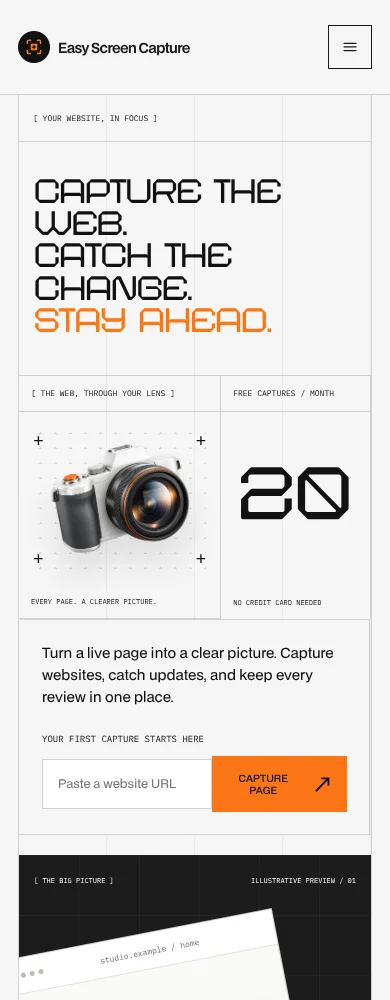
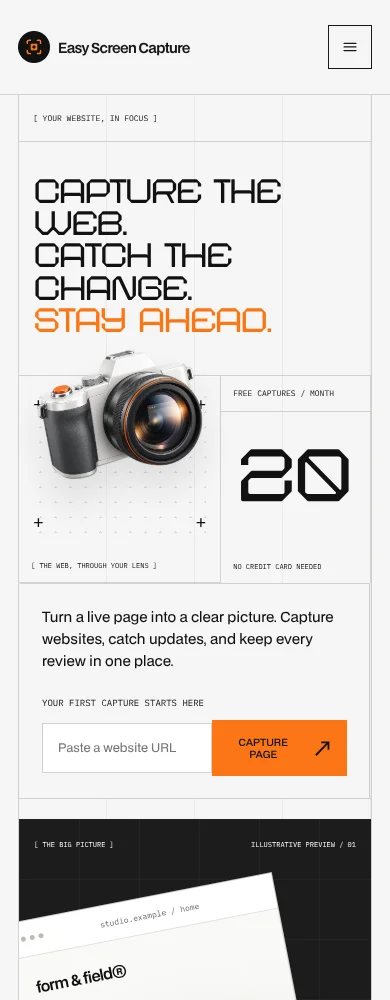
Let hero camera extend above its grid cell

Changed region(s): [[0.0308, 0.341, 0.9538, 1.0], [0.6154, 0.434, 0.8923, 0.527], [0.9231, 0.589, 0.9538, 0.62]]

diff --git a/src/styles/adon/ai-landing.css b/src/styles/adon/ai-landing.css
@@ -62,10 +62,13 @@
 }
 .ai-camera-art > img {
   width: 100%;
-  height: 100%;
-  object-fit: contain;
+  height: auto;
+  max-width: none;
   position: absolute;
-  inset: 0;
+  top: calc(-1 * clamp(80px, 10vw, 160px));
+  left: 0;
+  z-index: 2;
+  pointer-events: none;
   filter: drop-shadow(0 22px 14px #11111118);
   animation: ai-camera-float 8s ease-in-out infinite;
 }
@@ -692,6 +695,7 @@
   }
   .ai-camera-art > img {
     width: 100%;
+    top: calc(-1 * clamp(50px, 16vw, 65px));
   }
   .ai-landing .hero-17-content .location,
   .ai-landing .hero-17-content .experience {

diff --git a/docs/camera-hero.md b/docs/camera-hero.md
@@ -4,7 +4,7 @@ Generated with the built-in image-generation tool for Easy Screen Capture.
 
 Asset: `public/images/capture-camera.webp` (transparent alpha, 1254 × 1254, WebP delivery encoding).
 
-The camera replaces the abstract network shape in the AI Agency hero. Slow floating motion honors reduced-motion preferences and the existing pause control. It is decorative; the heading and capture form communicate the product without it.
+The camera replaces the abstract network shape in the AI Agency hero. It is enlarged and extends above the top border of its grid cell, echoing the reference robot composition, with a smaller overlap on mobile. The caption sits below the artwork to keep it readable. Slow floating motion honors reduced-motion preferences and the existing pause control. It is decorative; the heading and capture form communicate the product without it.
 
 ## Generation prompt
 
